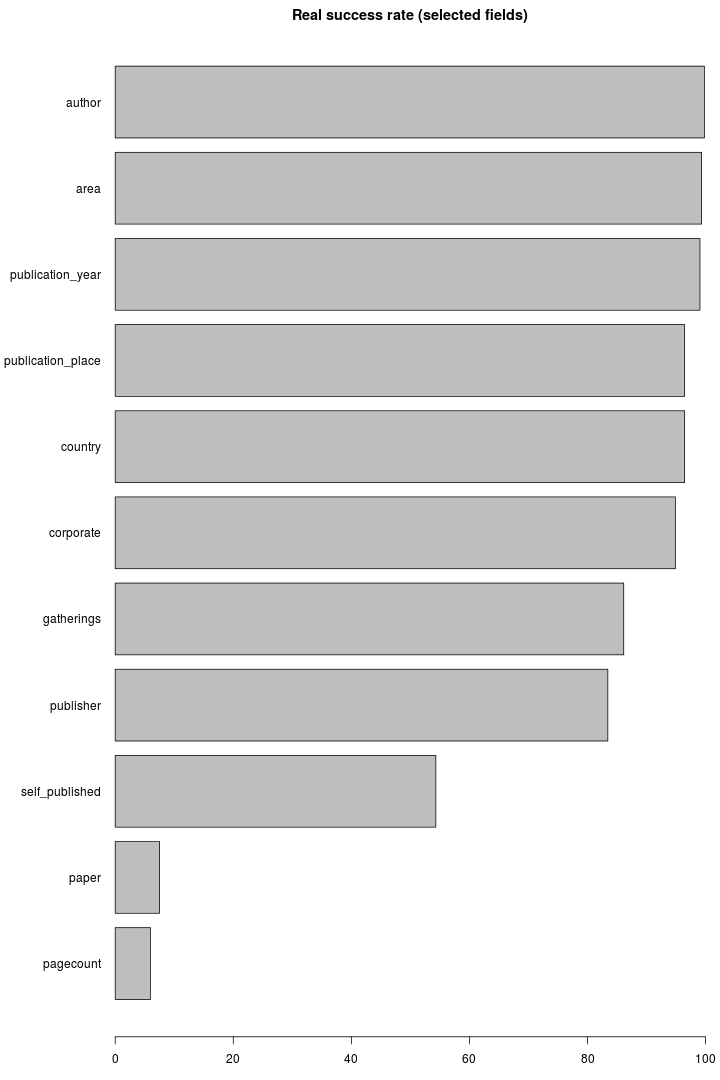
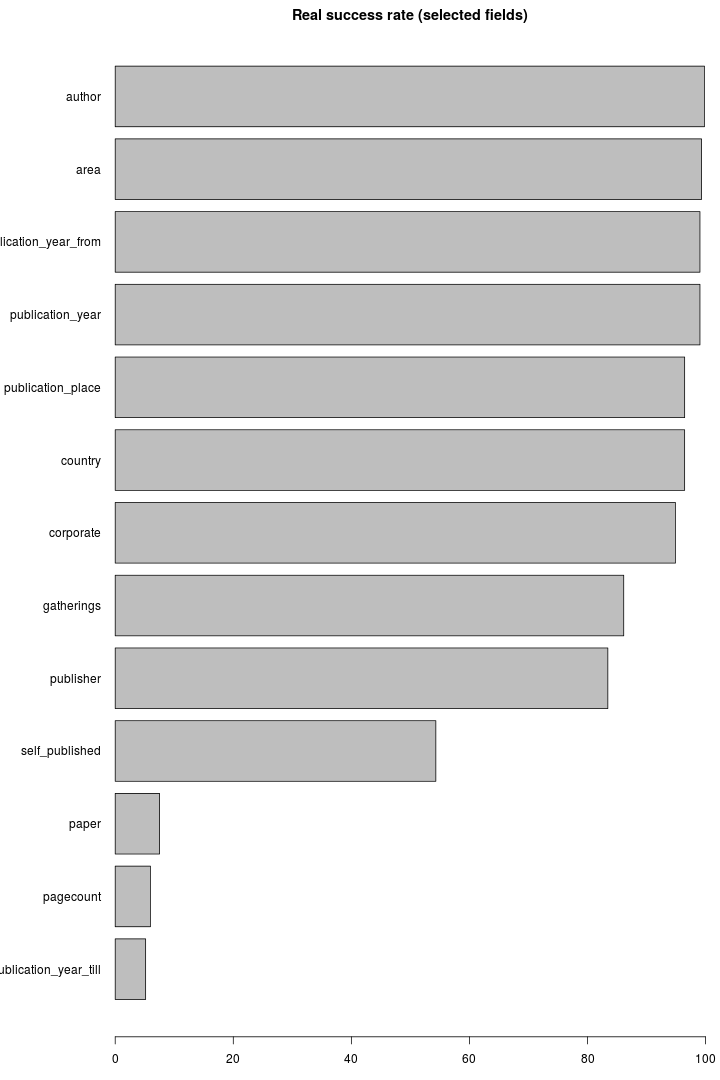
ok

diff --git a/inst/examples/summary.md b/inst/examples/summary.md
@@ -20,15 +20,6 @@ Percentage of non-NA entries among all documents in the preprocessed data (note 
 
 Fields of special interest: real success percentage (proportion of successful conversions compared to non-NA entries in the original data):
 
-
-```
-## Error in real.success[["publication_year_from"]] <- success$published_from/original.nonNA$publication_time: replacement has length zero
-```
-
-```
-## Error in real.success[["publication_year_till"]] <- success$published_till/original.nonNA$publication_time: replacement has length zero
-```
-
 ![plot of chunk missing2](figure/missing2-1.png)
 
 ## Pagecounts
